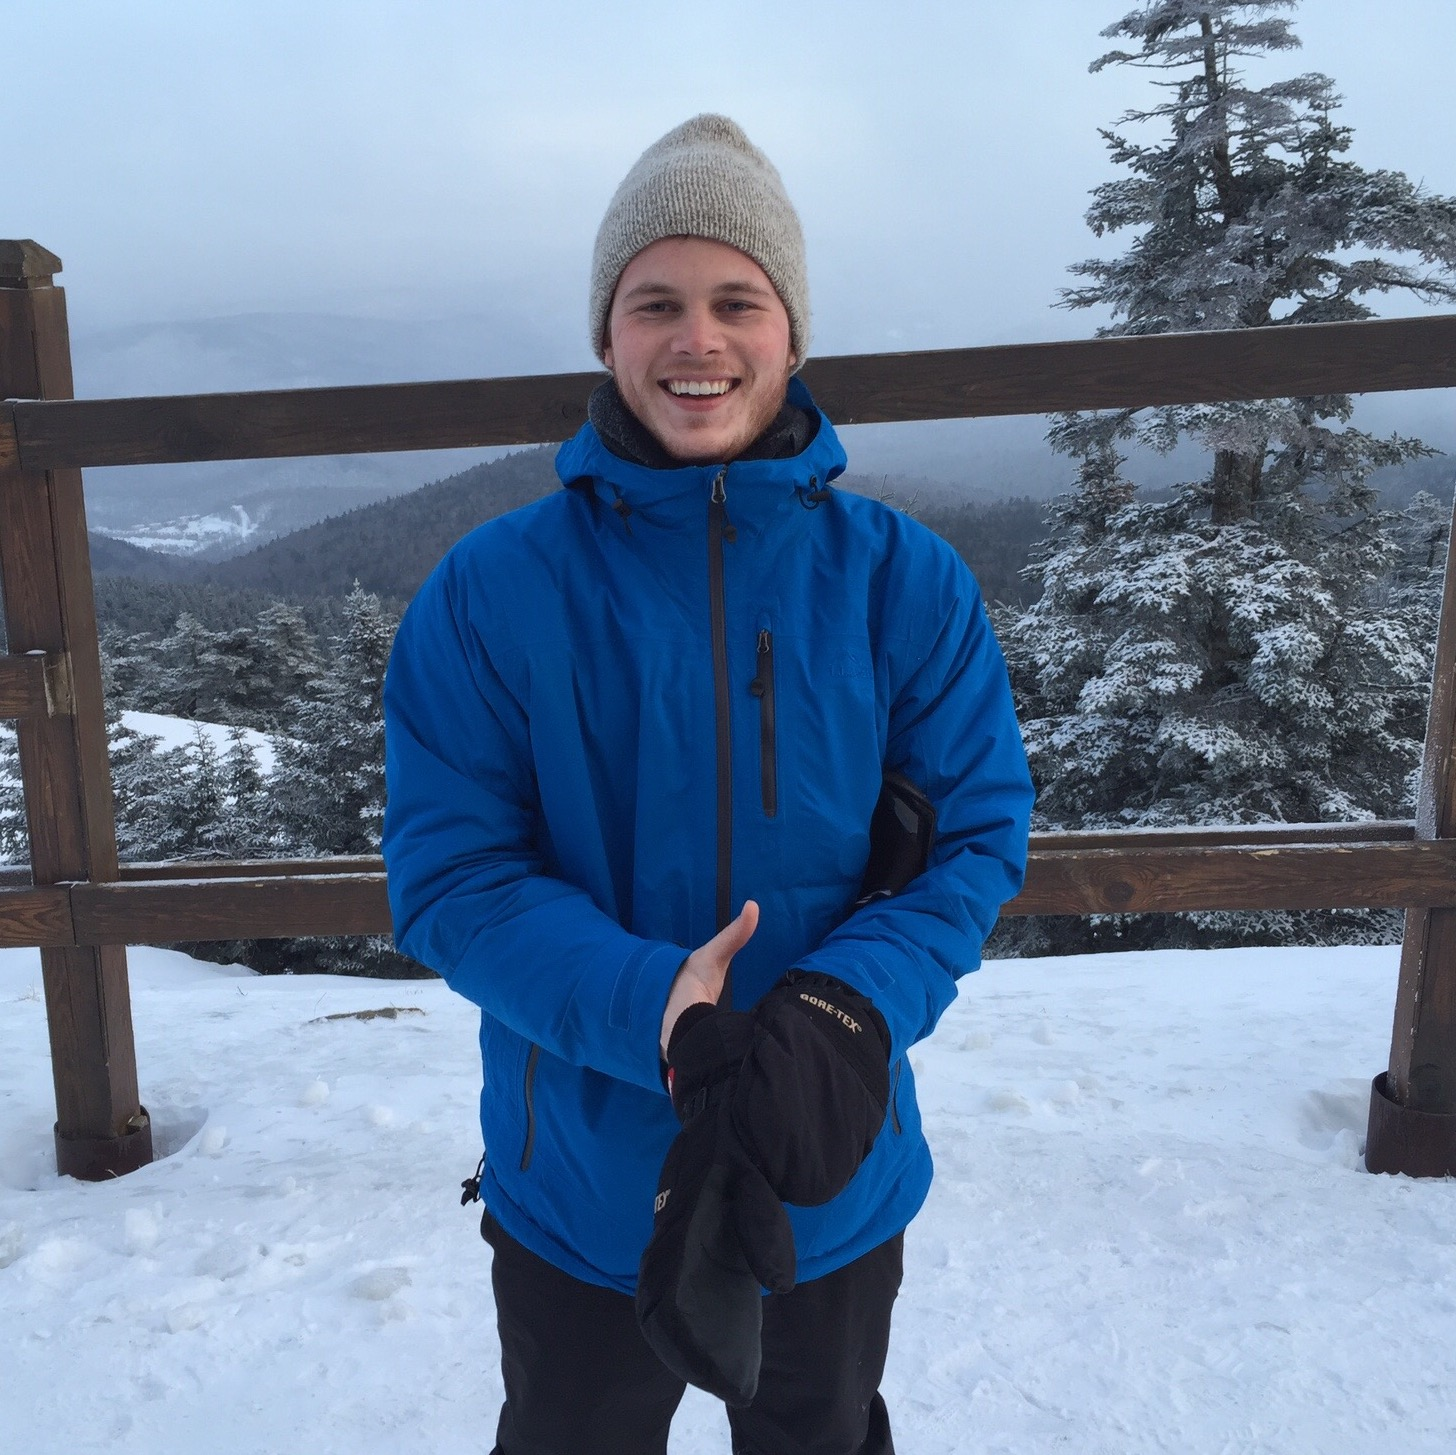
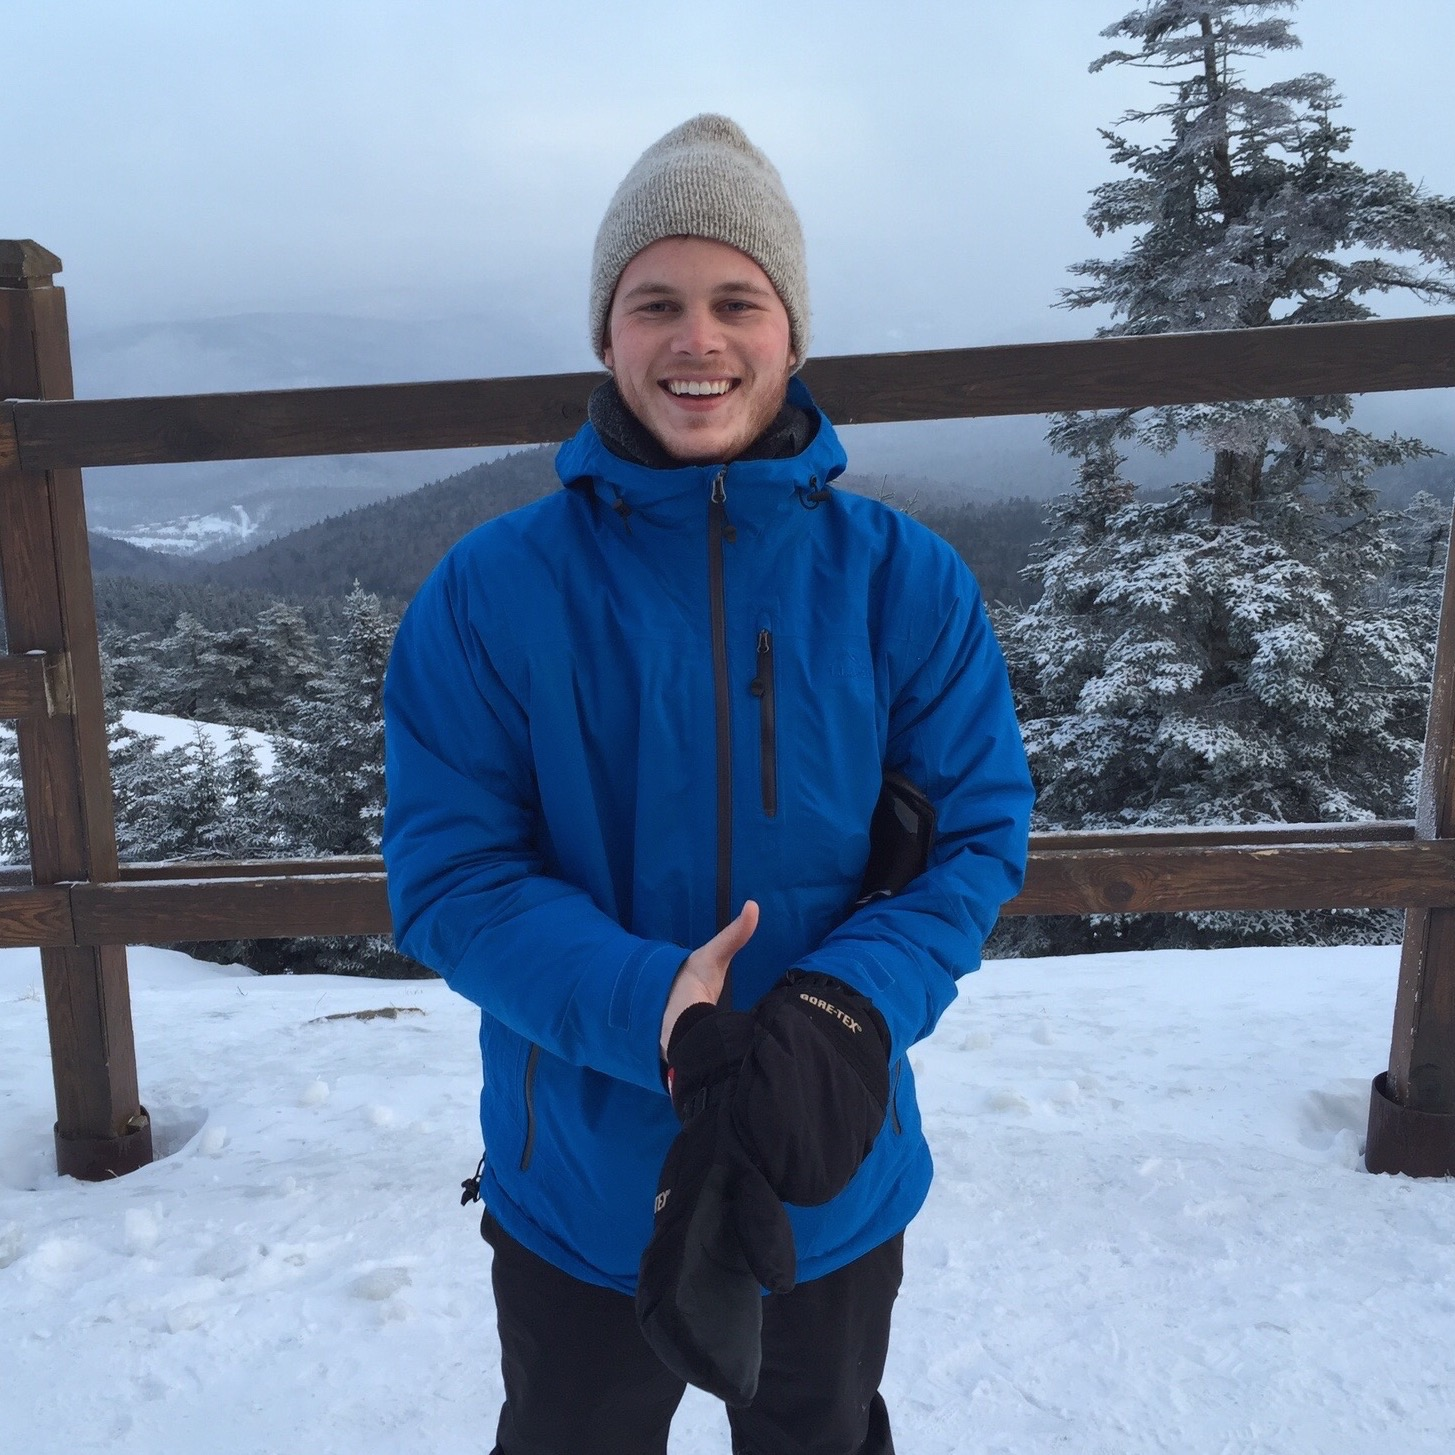
Added projects photos and interactivity

diff --git a/andrewdbooth/static/script.js b/andrewdbooth/static/script.js
@@ -1,5 +1,5 @@
 var prof_pics = [
-    '/static/img/Chimney_prof_pic.jpg',
+    '/static/img/favicon.jpg',
     '/static/img/Killington_prof_pic.jpg',
     '/static/img/Niagara_prof_pic.jpg',
     '/static/img/Oozefest_prof_pic.jpg'
@@ -16,6 +16,21 @@ $(function() {
         prof_pics[index] = $('.profile-image').attr('src');
         $('.profile-image').attr('src', new_src);
     });
+
+    $('.name-div').click(function() {
+        show_page(document.getElementById('about_navigation'));
+    });
+
+    // Add project image hover functionality
+    $('.img-project').hover(
+        function() {
+            $('.img-project').addClass('img-blurred');
+            $(this).removeClass('img-blurred');
+        },
+        function() {
+            $('.img-project').removeClass('img-blurred');
+        }
+    );
 });
 
 function show_page(elem) {

diff --git a/andrewdbooth/templates/index.html b/andrewdbooth/templates/index.html
@@ -20,7 +20,10 @@
     <div class="container main">
         <div class="row">
             <div class="col-sm-4">
-                <img src="{{url_for('.static', filename='img/favicon.jpg')}}" class="img-responsive profile-image">
+                <img src="{{url_for('.static', filename='img/Chimney_prof_pic.jpg')}}" class="img-responsive profile-image">
+                <div class="name-div">
+                    <h2 class="name-header">Andrew Booth</h2>
+                </div>
                 <table id="navigation-table" class="table table-hover table-condensed table-borderless">
                     {% for name in content.page_name_list %}
                         <tr id="{{name}}_navigation" class="navigation-row{% if not loop.index0 %} bg-selected{% endif %}">

diff --git a/andrewdbooth/static/style.css b/andrewdbooth/static/style.css
@@ -10,6 +10,12 @@ body {
 .profile-image {
     cursor: pointer;
 }
+.name-div {
+    cursor: pointer;
+}
+.name-header {
+    text-align: center;
+}
 
 /* Navigation table stuff */
 .table-borderless tbody tr td {
@@ -23,4 +29,19 @@ body {
 }
 .navigation-text {
     transform: translate(0, 25%);
+}
+
+/* Projects table stuff */
+.table-flush tbody tr td {
+    padding: 0;
+}
+.img-wrapper {
+}
+.img-project {
+    width: 1000px;
+    cursor: pointer;
+    -webkit-filter: grayscale(30%);
+}
+.img-blurred {
+    -webkit-filter: grayscale(75%) blur(1px);
 }

diff --git a/andrewdbooth/templates/projects.html b/andrewdbooth/templates/projects.html
@@ -1,2 +1,10 @@
-
-{{content.projects}}
+<table class="table table-borderless table-flush">
+    {% for item in content.projects %}
+        {% if loop.index0 % 3 == 0 %}<tr>{% endif %}
+        <td class="img-wrapper">
+            <img src="{{url_for('.static', filename='img/projects_images/' ~ item.name ~ '.jpg')}}" class="img-responsive img-project">
+        </td>
+        {% if loop.index0-2 % 3 == 0 %}</tr>{% endif %}
+    {% endfor %}
+    </tr>
+</table>

diff --git a/andrewdbooth/templates/resume.html b/andrewdbooth/templates/resume.html
@@ -1,5 +1,5 @@
 {# andrewdbooth/templates/resume.html #}
 
 <a href="{{url_for('.static', filename='content/resume.pdf')}}">
-    <img src="{{url_for('.static', filename='content/resume.png')}}" class="img-responsive">
+    <img src="{{url_for('.static', filename='img/resume.png')}}" class="img-responsive">
 </a>

diff --git a/andrewdbooth/__init__.py b/andrewdbooth/__init__.py
@@ -1,6 +1,6 @@
 # andrewdbooth/__init__.py
 
-from flask import Flask, Markup
+from flask import Flask, json, Markup
 from markdown import markdown
 import os
 
@@ -12,16 +12,22 @@ app.config.from_object('config')
 APP_ROOT = os.path.dirname(os.path.abspath(__file__))
 APP_STATIC = os.path.join(APP_ROOT, 'static')
 APP_CONTENT = os.path.join(APP_STATIC, 'content')
+APP_IMAGE = os.path.join(APP_ROOT, 'img')
 
 # Make content object
 content = {}
 content['page_name_list'] = app.config['CONTENT_PAGE_NAMES']
 
+# Make about object for content object
 with open(os.path.join(APP_CONTENT, 'about.md')) as f:
     content['about'] = Markup(markdown(f.read()))
 
+# Make blog object for content object
 content['blog'] = 'blog here'
-content['resume'] = 'resume here'
-content['projects'] = APP_CONTENT
+
+# Make projects object for content object
+# content['projects'] = {}
+with open(os.path.join(APP_CONTENT, 'projects.json')) as f:
+    content['projects'] = json.load(f)['projects']
 
 import andrewdbooth.views

diff --git a/config.py b/config.py
@@ -1,4 +1,4 @@
 # config.py
 
 DEBUG = True
-CONTENT_PAGE_NAMES = ['about', 'blog', 'resume', 'projects']
+CONTENT_PAGE_NAMES = ['about', 'projects', 'blog', 'resume']

diff --git a/andrewdbooth/static/content/about.md b/andrewdbooth/static/content/about.md
@@ -1,5 +1,19 @@
-### About
+### About Andrew
 
-22 year old still in the throes of higher education, currently working as a controls engineering intern at Corning Inc.'s Environmental Technologies plant in Erwin, NY.
+Twenty-two year old currently working as a controls engineering intern at [Corning Inc.](https://www.corning.com/)'s Environmental Technologies plant in Erwin, NY.
 
-Come August I'll be back at SUNY Buffalo to finish up my last undergrad year in their Computer Engineering program.
+Come August I'll be back at [SUNY Buffalo](http://www.buffalo.edu/) to finish up my last undergrad year in their [Computer Engineering program](http://www.cse.buffalo.edu/).
+
+I spend my days kayaking the mighty [Chemung](https://www.google.com/maps/@42.0965219,-76.9227392,1317m/data=!3m1!1e3), skiing [HV](http://www.holidayvalley.com/) & [QKA](http://www.keukalake.com/), and biking along the [Erie Canal](https://www.canalsidebuffalo.com/things-to-do/2015-08/?filter=health-fitness).
+
+### Contact
+
+email: [home](mailto:boothandrewd@gmail.com) or [school](mailto:adbooth@buffalo.edu)
+
+github: [adbooth](https://github.com/adbooth)
+
+linkedin: [boothad](https://www.linkedin.com/in/boothad)
+
+facebook: [Andrew.D.Booth](https://www.facebook.com/Andrew.D.Booth)
+
+twitter: [@broothie](https://twitter.com/broothie)
